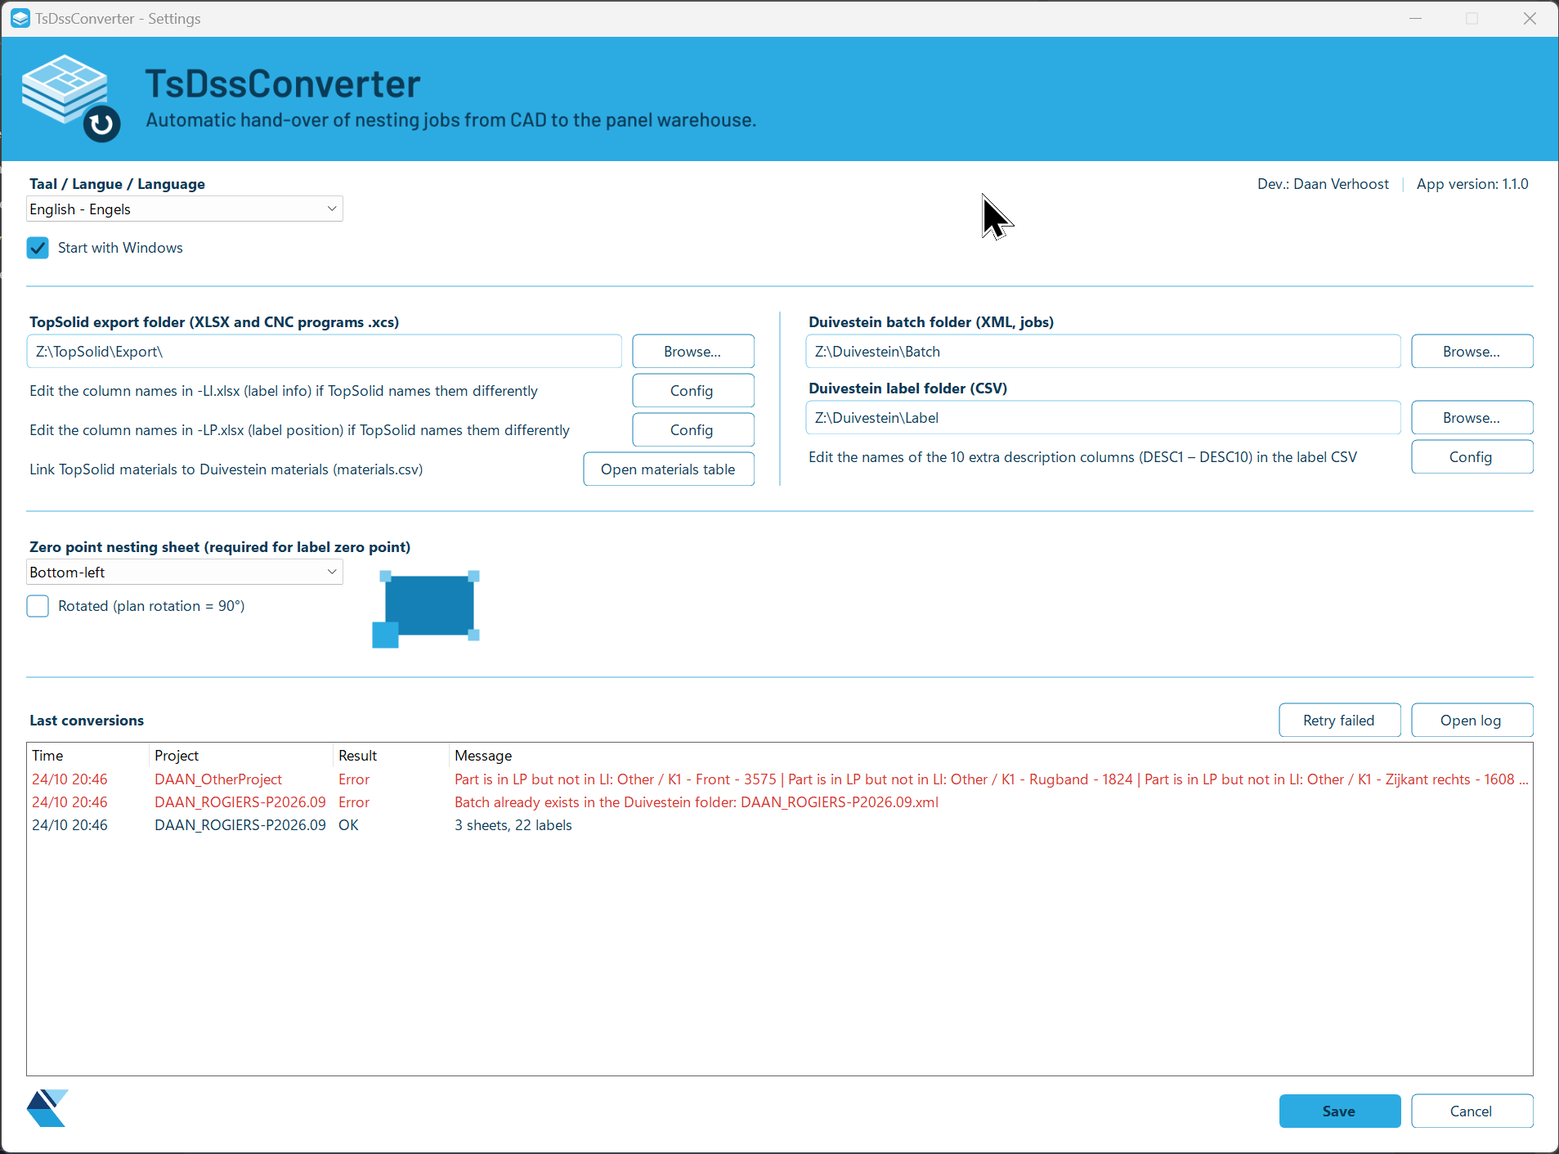
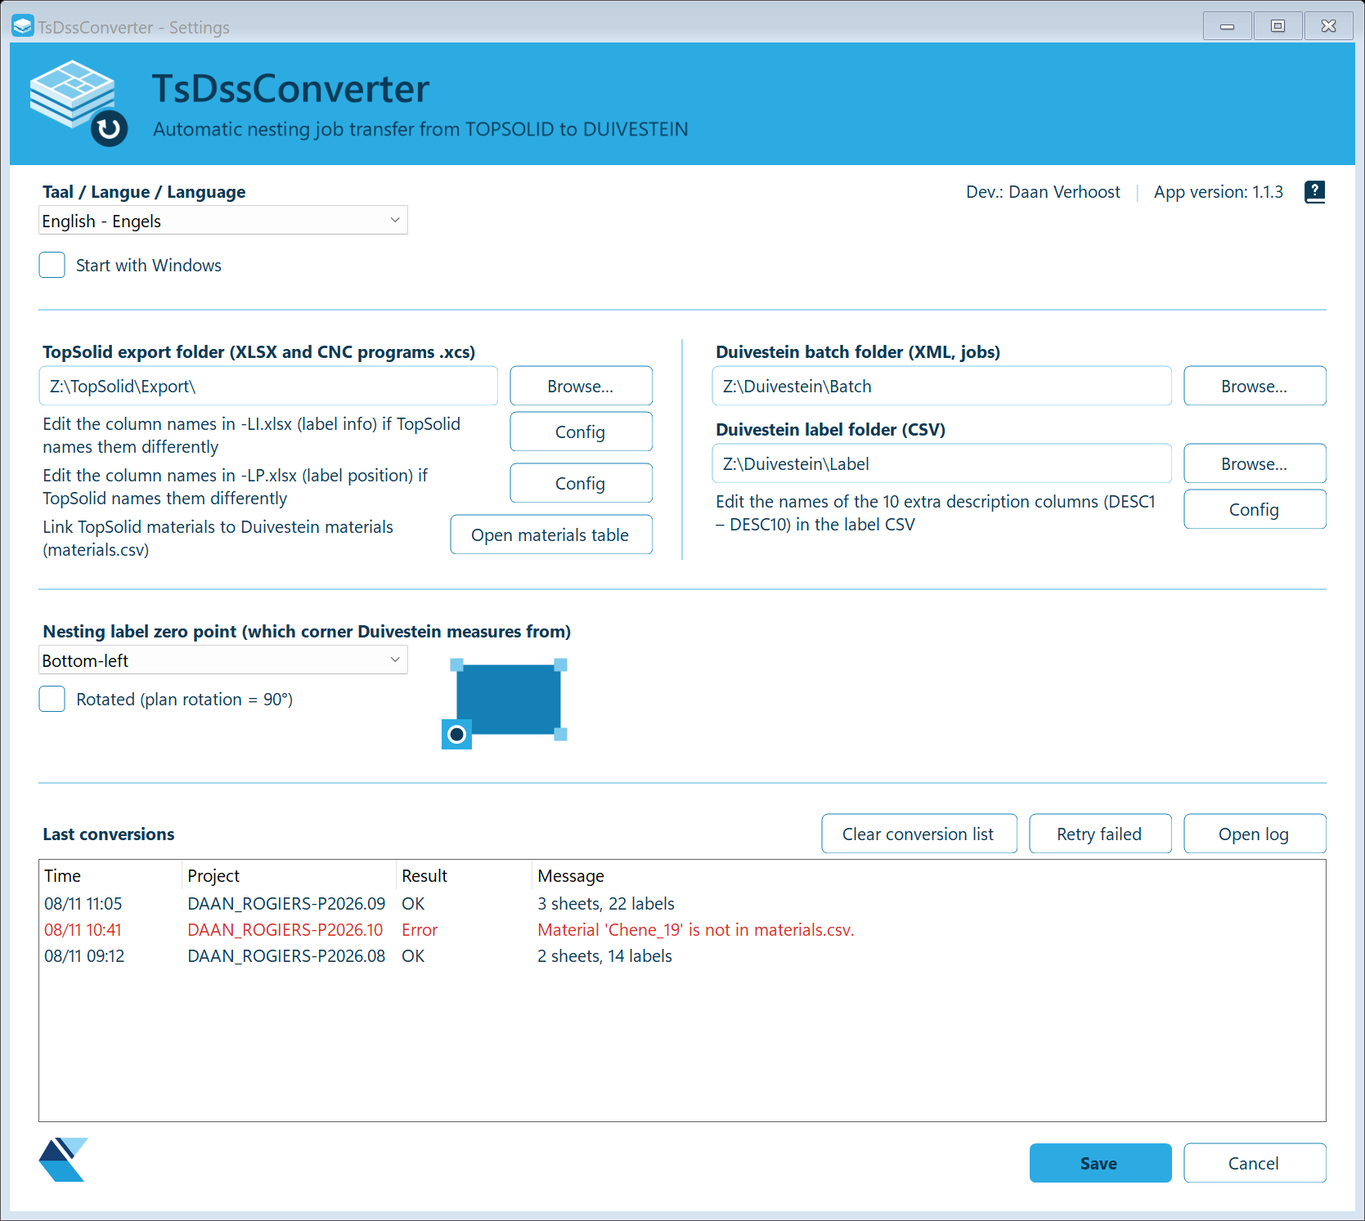
Modified README on latest release

Changed region(s): [[0.0, 0.0, 1.0, 1.0]]

diff --git a/README.md b/README.md
@@ -1,52 +1,40 @@
-<h1 align="center"><img src="media/header@2x.png" width="540" alt="TsDssConverter - Automatic hand-over of nesting jobs from CAD to the panel warehouse."></h1>
+<h1 align="center"><img src="media/preview/Banner.png" width="540" alt="TsDssConverter - Automatic nesting job transfer from TOPSOLID to DUIVESTEIN"></h1>
 
-**Automatic hand-over of nesting jobs from TopSolid to the Duivestein warehouse.**
+**Automatic nesting job transfer from TopSolid to the Duivestein panel warehouse.**
 
-TsDssConverter is a small Windows tray application that watches a folder for TopSolid nesting exports and
-converts them, without any manual work, into a job that the Duivestein automatic warehouse understands.
+TsDssConverter is a small Windows tray application. It watches the folder where TopSolid exports its nesting jobs and turns
+every finished job, without any manual work, into a batch job for the Duivestein automatic warehouse.
+Sister tool: **[DssLabelTemplate](https://github.com/Ruu-D/DssLabelTemplate)** (view, edit and reprint the labels).
 
-> **Status: version 1.1.3 is built (2026-11-08).** Version 1.1.0 was the first customer release; 1.1.1 and 1.1.2 contain the
-> first fixes from real TopSolid exports of the customer, 1.1.3 small improvements to the settings window. Real-world tests with the Duivestein warehouse and the machine are
-> still going on. See [Status and roadmap](#status-and-roadmap).
->
-> **Important fix, agreed with TopSolid (2026-11-04):** TopSolid writes the CNC programs of every project in a folder of their
-> own, named after the project, so that two jobs can never overwrite each other's programs. Version 1.1.2 and later are ready
-> for it (older versions are not: install 1.1.3 first). See [Important fix still to do](#important-fix-still-to-do).
+> **Status:** version **1.1.3** (2026-11-08). In use at the customer since version 1.1.0 (2026-10-24); the real-world tests
+> with the warehouse and the machine are going on. Full history: [CHANGELOG.md](CHANGELOG.md).
 
----
+## At a glance
+
+- **One file**, `TsDssConverter.exe`: no installer, no .NET installation, no Excel or Office. It lives in `C:\TsDssConverter\`,
+  together with its settings, the materials table and the log files. Uninstalling = deleting that folder.
+- **Works silently** in the Windows tray. Only when a job fails: one notification and a red icon.
+- **Dutch, French and English** interface.
+- **Strict on purpose:** it never guesses a material, never overwrites a job and never lets the warehouse see half a job.
 
 ## What it looks like
 
-The program lives in the Windows tray, next to the clock (possibly under the `^` arrow), and always works silently in the
-background. Double-click the icon to open the window to modify settings if needed.
+The program lives in the Windows tray, next to the clock. Double-click the icon to open the settings window.
 
 <p align="center">
   <img src="media/preview/TrayIcon.png" width="420" alt="The TsDssConverter icon in the Windows tray, next to the clock.">
 </p>
 
-The settings window (here in English; the whole interface is also available in Dutch and French) holds the folders,
-the label zero point and the list of the last conversions. The TopSolid folder (left) and the two Duivestein folders
-(right) sit side by side:
-
 <p align="center">
-  <img src="media/preview/MainUI-preview.png" width="720" alt="The TsDssConverter 1.1.0 settings window in English. At the top the language and Start with Windows, with the developer credit and app version at the right. Below, side by side: the TopSolid export folder with two Config buttons and the Open materials table button, and the Duivestein batch and label folders with a Config button. Then the zero point of the nesting sheet with its small schematic, and the list of the last conversions with one successful and two failed jobs, the Retry failed and Open log buttons, the ROGIERS logo and Save / Cancel.">
-</p>
-
-<p align="center">
-  <img src="media/preview/TsDssConverter_DEMO.gif" width="720" alt="Animated demo of the TsDssConverter 1.1.0 settings window in English: language, start with Windows, the TopSolid export folder and the two Duivestein folders side by side, the Config buttons, the zero point of the nesting sheet and the list of the last conversions.">
+  <img src="media/preview/MainUI-preview.png" width="720" alt="The TsDssConverter settings window in English: the TopSolid export folder and the two Duivestein folders side by side, the label zero point with its small schematic, and the list of the last conversions with two successful jobs and one failed job.">
 </p>
 
 ## Why this tool exists
 
-At the customer, panels are nested and programmed in **TopSolid** (CAD/CAM) for a **SCM Morbidelli X200**
-CNC machine. The boards are stored and handled by a **Duivestein automatic warehouse**, which:
-
-1. picks up each sheet from the warehouse and puts it onto the label / alignement table,
-2. prints and places the labels (the label template layout is generated by Duivestein),
-3. sends the CNC program [via supervisor] on the SCM and pushes the sheet onto the nesting machine.
-
-The warehouse needs a *batch job* in XML-format that describes which sheets to pick, which labels to print and where each
-label goes. **TopSolid unfortunately does not produce that format. TsDssConverter is the missing link between the two systems.**
+At the customer, panels are nested and programmed in **TopSolid** (CAD/CAM) for an **SCM Morbidelli X200** CNC machine. The
+boards are handled by a **Duivestein automatic warehouse**, which picks each sheet, prints and places its labels, and pushes
+the sheet onto the machine. The warehouse needs a *batch job* (XML) that says which sheets to pick, which labels to print and
+where each label goes. **TopSolid does not produce that format: TsDssConverter is the missing link.**
 
 ```mermaid
 flowchart LR
@@ -57,193 +45,75 @@ flowchart LR
     D --> E["Duivestein warehouse<br/>picks sheets, prints labels"]
     E --> F["SCM Morbidelli X200"]
 ```
-## What this tool does
 
-For every finished TopSolid drawing, this tool:
+## How it works
 
-- reads the TopSolid XLSX exports (label information '-LI' and label positions '-LP') and joins them per part,
-- translates the TopSolid material names to the warehouse material names,
-- creates **one batch XML** with one plan per material and one entry per sheet (label file + CNC program),
-- creates **one label CSV per sheet**, with a row per part: its position, rotation, dimensions, edge banding
-  and other data that Duivestein can use in the label layout,
-- puts the files in the folders that the Duivestein warehouse reads.
+1. TopSolid writes two XLSX files per project (label information `-LI` and label positions `-LP`), the CNC programs in a
+   folder named after the project, and a trigger file `-TR` as the very last one.
+2. When the trigger file appears, the program converts the project: it joins the two exports per part, translates the
+   TopSolid material names with `materials.csv`, and writes **one batch XML** (one plan per material) and **one label CSV per
+   sheet** (position, rotation, dimensions, edge banding and other data for the label layout).
+3. The CNC programs are moved to `CNC\<project>\` and the XLSX files to `_Converted\` (folder names follow the language), so
+   the export folder only holds what is not converted yet.
+4. If something is wrong with a job, its files go to `_Error\` with a `fout.txt` that explains in plain language what to
+   correct. Once fixed, **Retry failed** puts them back for a new attempt. A network drive that is not there yet only
+   delays the job: it is retried by itself.
 
-Excel or Office is **not** needed on the PC.
-
-**What it does not do:** it does not print labels, does not talk to the machine and does not talk to
-TopSolid. It only reads and converts files.
-
-### Example
-
-The included sample project (22 parts) becomes:
-
-- 1 batch XML with 2 plans (one per material), and
-- 3 label files, one for each physical sheet.
-
-An extract of the batch XML:
-
-```xml
-<Plan>
-  <PlanName>001</PlanName>
-  <MaterialName>Melamine_18</MaterialName>
-  <XDimSize>2850</XDimSize>
-  <YDimSize>2100</YDimSize>
-  <Quantity>2</Quantity>
-  <LabelFilenames>
-    <LabelFilename>Z:\Duivestein\Label\DAAN_ROGIERS-P2026.09_001.csv</LabelFilename>
-    <!-- ... one per sheet ... -->
-  </LabelFilenames>
-  <CNCFilenames>
-    <CNCFilename>Z:\TopSolid\Export\CNC\DAAN_ROGIERS-P2026.09\Melamine_18#01.xcs</CNCFilename>
-    <!-- ... same order as the label files ... -->
-  </CNCFilenames>
-</Plan>
-```
-
-The complete expected output is in [`samples/duivestein/`](samples/duivestein/).
+The sample project in [`samples/`](samples/) (22 parts) becomes one batch XML with 2 plans and 3 label files; the expected
+output is in [`samples/duivestein/`](samples/duivestein/).
 
 ## Built to be safe
 
-A wrong job means a wrong boards on the machine, so the tool is strict:
+A wrong job means a wrong board or a wrong program on the machine, so the tool refuses rather than repairs:
 
-- **Never guesses a material.** The material of a part is the TopSolid *Matériau* column. A material missing from
-  `materials.csv` stops the conversion and is named in the message, and so do parts of different materials on one sheet or
-  a part without a material.
-- **Never overwrites a job.** If the batch already exists in the warehouse folder, nothing is written. This means that
-- **Jobs cannot overwrite each other's CNC programs.** TopSolid names them after the sheet, but writes them in a folder named
-  after the project (since 1.1.2, see [Important fix still to do](#important-fix-still-to-do)); after conversion they are moved
-  to `CNC\<project>\`. For older exports that still put the programs directly in the export folder, a program newer than the
-  job's trigger file is refused.
-- **The warehouse never sees half a job.** Label files first, batch XML last; every file is renamed into place when complete.
-- **Bad input is refused, not repaired.** Missing columns, unmatched or duplicate parts, unknown materials, unreadable
-  dimensions and labels outside their sheet are errors; nothing is written.
-- **Every problem is reported at once,** in plain language (Dutch, French or English), naming the part or column. Non-blocking
-  issues (a CNC program not there yet, a duplicate part number) are warnings only.
+- **No guessed materials:** an unknown material, an empty one or two materials on one sheet stop the job, with the name.
+- **No overwritten jobs:** if the batch already exists in the warehouse folder, nothing is written.
+- **No mixed-up CNC programs:** each project's programs stay in a folder of their own.
+- **Never half a job:** label files first, batch XML last, each file renamed into place only when complete.
+- **Every problem at once,** in plain language, naming the part or column. Small issues are warnings only.
 
-## How the automatic processing works
+## Main milestones
 
-The program watches the TopSolid export folder. TopSolid writes the two data files (`-LI` and `-LP`), the CNC
-programs (in a folder named after the project, `<project>\`), and the trigger file (`-TR`) as the very last one. When the
-trigger file appears:
-
-1. The program waits until the three files are complete and no longer in use (it checks every 2 seconds, and gives up
-   with an error after 2 minutes).
-2. It converts the project (one at a time) and writes the label files and the batch XML for the warehouse.
-3. It moves the three files to `_Verwerkt\<date-time> <project>` in the export folder (`_Effectuee` / `_Converted` in French /
-   English, the folder names follow the selected language), and the CNC programs of the job
-   from `<project>\` to `CNC\<project>\` (the batch XML points there; the emptied `<project>\` folder is removed). The export
-   folder itself then only holds what is not converted yet.
-4. If something is wrong with the files, they go to `_Fout\<date-time> <project>` (`_Erreur` / `_Error`) together with a `fout.txt` that
-   explains in plain language (in the selected language) what to correct. After the cause is fixed (for example a
-   material was added to `materials.csv`), the button **Herstart mislukte** / **Réessayez échoué** / **Retry failed** in the
-   settings window puts the files of all failed projects back in the export folder, which starts a new attempt at once.
-   It never overwrites a file that is already in the export folder (for example a newer export of the same project): such
-   a project is left alone and the user is told. Putting the files back by hand works as well.
-
-Problems that are not the fault of the files, such as a network drive that is not connected yet, do **not** move
-anything: the files wait and the program tries again by itself, and the user is told once. The program also scans the
-folder every 30 seconds (in case a file event is missed), and the menu item *Nu scannen* scans at once.
-
-## Status and roadmap
-
-| Stage | Content | Status |
+| Version | Date | |
 |---|---|---|
-| 1 | **Core + command line tool**: read, join, map, write XML and CSVs; automated tests | **Done** |
-| 2 | **Validation**: all checks and warnings, one clear report, exit code for errors | **Done** |
-| 3 | **Tray application (shell)**: icon with four looks (normal, busy, error, paused), menu, settings window, `settings.json`, start with Windows, log files. | **Done** |
-| 4 | **Folder watching and processing**: trigger file, one conversion at a time, `_Verwerkt` / `_Fout` folders with a readable `fout.txt`, notifications, recovery when the network drive is gone | **Done** |
-| 5 | **Delivery**: one 'installation' file `TsDssConverter.exe` (version 1.1.3, 52 MB, no .NET needed), install at the customer, physical test sheet | **1.1.0 = first customer release; 1.1.3 built; real-world tests going on** |
+| 1.0.0 | 2026-09-20 | First complete version: conversion, all checks, tray application, folder watching, one-file delivery |
+| 1.0.3 | 2026-09-21 | Batch XML in the format accepted by Duivestein's DSSClient |
+| 1.1.0 | 2026-10-24 | **First customer release**, with the redesigned settings window |
+| 1.1.1 | 2026-10-30 | Fixes from the first real customer exports (material from TopSolid's *Matériau* column) |
+| 1.1.2 | 2026-11-04 | CNC programs read from a folder per project, as agreed with TopSolid |
+| 1.1.3 | 2026-11-08 | `settings.json` can be edited while the program runs (see below); banner in the style of DssLabelTemplate |
 
-**1.1.3 (2026-11-08):** a new subtitle in the banner, in the same font style as the sister program DssLabelTemplate, and a 15%
-smaller banner (in both programs); the settings window can be maximized; for maintenance, **Shift+click on the ROGIERS logo**
-opens `settings.json` in Notepad (a normal click still opens the website). A changed `settings.json` is used within seconds,
-without a restart, and saving in the window no longer overwrites what was edited in the file.
-**1.1.2 (2026-11-04):** the CNC programs are read from a folder named after the project (`<export>\<project>\`), as agreed with
-TopSolid; programs directly in the export folder (older exports) still work.
-**1.1.1 (2026-10-30):** the material is read from the TopSolid *Matériau* column, parts of different materials on one sheet are
-refused, and a **Clear conversion list** button empties the list in the window (the log files keep everything).
-**Next:** bug fixes from practice; no new features are planned.
+## Settings that are only in `settings.json`
 
-**What is verified so far**
+The folders, language and zero point are set in the window. A few advanced settings are only in
+`C:\TsDssConverter\settings.json`: **Shift+click on the ROGIERS logo** (bottom left of the window) opens it in Notepad. A saved
+change is used within seconds, without a restart, and is never overwritten by the window.
 
-- 460 automated tests pass. They cover the conversion, every error and warning, the settings window, the folder watching (with a
-  fake clock) and all three languages.
-- The settings window lays out correctly at 100%, 125% and 150% screen scaling (checked on a real screen at each scaling,
-  plus automated tests that guard the rules).
-- The sample TopSolid export converts to exactly the expected files (compared byte for byte).
-- The single-file `.exe` (about 52 MB) starts, creates its files and refuses a second copy. An earlier build ran on a PC without
-  .NET and converted the sample correctly.
-- A renamed TopSolid column can be followed by editing a text file (the *Config* buttons); this is tested too.
-- A real export of the customer (2026-10-30), in the format agreed with TopSolid, was converted correctly by the 1.1.1 `.exe`
-  by itself (folder watching, CNC programs moved, files put away).
-- The 1.1.2 `.exe` converted the sample by itself with its CNC programs in the new project folder (programs found and moved,
-  the emptied folder removed, no warnings).
+| Setting | Default | Meaning |
+|---|---|---|
+| `CncExtension` | `.xcs` | File extension of the CNC programs |
+| `CncPathPrefixInXml` | empty | Replaces the export folder in the CNC paths of the batch XML (e.g. a `\\server\...` path) |
+| `CsvEncoding` | `utf-8` | Encoding of the label CSV files |
+| `RescanSeconds` | `30` | How often the export folder is scanned besides the file events (5 – 3600) |
+| `RequireTriggerFile` | `true` | Wait for the `-TR` file before converting |
 
-## Decisions taken so far
+The TopSolid column names and the extra label columns are set with the *Config* buttons, the materials with
+*Open materials table*.
 
-- **One folder:** everything lives in `C:\TsDssConverter\` (exe, settings, `materials.csv`, column files, logs). Uninstalling means
-  deleting it.
-- **Editable column names:** the header names the program looks for are in small text files (the *Config* buttons), so a renamed
-  TopSolid column does not break it.
-- **Three languages:** Dutch (default), French and English, chosen in the settings. Files for the warehouse are not translated.
-- **Quiet operation:** in the tray, no pop-ups on success; on an error one notification and a red icon until the next success or
-  until the window is opened.
-- **Retry failed:** one button puts all failed projects back in the export folder once the cause is fixed. It never overwrites and
-  is silent on success.
-- **TopSolid files:** `-TR` is written last, so everything else is complete when it appears. CNC programs are `.xcs`, with
-  drive-letter paths (`Z:`) in the batch XML.
-- **CNC programs:** TopSolid writes them in `Z:\TopSolid\Export\<project>\` (since 1.1.2); after conversion they are moved to
-  `Z:\TopSolid\Export\CNC\<project>\`, so jobs never overwrite each other's programs.
-- **Materials:** the TopSolid name is the master name; the warehouse uses the same names and checks the sheet sizes against its stock.
-  The material is read from the *Matériau* column of the label-info export, not from the sheet name (since 1.1.1). Keeping
-  `materials.csv` up to date is the customer's responsibility.
-- **By design:** the list of conversions is not saved between runs, and the app runs only while a user is logged in.
-
-## Important fix still to do
-
-**The CNC programs of every project must be written in a folder of their own, to be set up in TopSolid.**
-
-**Agreed with TopSolid (2026-11-04)**, replacing the project prefix in the sheet name agreed on 2026-10-30 (TopSolid cannot put
-the project in the CAM file name, because a program belongs to parts, not to a project): TopSolid makes a folder named after
-the project inside the export folder and writes the programs there, named after the sheet as before:
-
-```
-Z:\TopSolid\Export\P2026-Cuisine-ROGIERS-LI.xlsx
-Z:\TopSolid\Export\P2026-Cuisine-ROGIERS-LP.xlsx
-Z:\TopSolid\Export\P2026-Cuisine-ROGIERS\MELA_BLANC_18#01.xcs
-Z:\TopSolid\Export\P2026-Cuisine-ROGIERS\MELA_BLANC_18#02.xcs
-Z:\TopSolid\Export\P2026-Cuisine-ROGIERS-TR.xlsx      (still the very last file)
-```
-
-The folder name is exactly the project name of the XLSX files; each program name is exactly the sheet name (`Nom_panneau` in the
-label-info export = `SP` in the label-position export) + `.xcs`. The sheet names need no project in them. The program is ready
-for this since 1.1.2 (checked with the sample in this layout). Waiting for TopSolid to deliver it.
-
-Why this matters: TopSolid used to write the programs of **all** jobs in one shared folder and names them after the sheet only.
-A second job with the same material and sheet number overwrote the program of the first job before the first job had been
-converted, and a wrong program on the machine is the most expensive mistake this tool could allow.
-
-Until every export uses the project folder, the converter still accepts programs directly in the export folder, and refuses such
-a program when it is more than 5 seconds newer than the job's trigger file (a safety net that compares file times on a network
-drive, so it cannot be proven complete). Programs in the project folder are not checked that way: no other job writes there.
-Once every export uses the project folder, the old place and that check can be dropped (a separate, small step).
-
-## Still to be confirmed by others
+## Open points
 
 | From | Question |
 |---|---|
-| TopSolid | **Important:** deliver the agreed project folder for the CNC programs (see [Important fix still to do](#important-fix-still-to-do)). The program looks for `{project}\{sheet name}.xcs` in the export folder, then for `{sheet name}.xcs` |
-| TopSolid | The sheet thickness column in the export was always 18; the export of 2026-10-30 shows the real thickness (8 and 18): to confirm (the tool takes the thickness from `materials.csv` anyway) |
-| Duivestein | Restrictions on batch name (length, characters) and what happens when a batch is sent twice |
-| Physical test | Which point of the label the position refers to, the rotation direction, and whether the zero-point settings change the rotation |
-| Physical test | Does Duivestein's print template pre-rotate the printed content for 180°/270° (so a SQUARE label's edge-banding fields still land on the right edge)? And if the label stock is NOT square, does a 90°/270° rotation squeeze the field layout into the shorter dimension for about half the parts, or does Duivestein's engine avoid that? |
-
+| TopSolid | **Deliver the agreed folder per project for the CNC programs** (`<export>\<project>\<sheet>.xcs`, agreed 2026-11-04). The program is ready for it; until then programs directly in the export folder still work, protected by a time check. |
+| Duivestein | Restrictions on the batch name, what happens when a batch is sent twice, and an import test of the label CSVs |
+| Physical test sheet | Which point of the label the position refers to, the rotation direction, and how square and non-square labels are turned |
 
 ## Technology
 
-C# on .NET 10, [ClosedXML](https://github.com/ClosedXML/ClosedXML) to read XLSX files (no Excel needed),
-xUnit for the tests. The tray application uses Windows Forms.
+C# on .NET 10 with Windows Forms; [ClosedXML](https://github.com/ClosedXML/ClosedXML) reads the XLSX files (no Excel needed).
+460 automated tests (xUnit) cover the conversion, every error and warning, the window at several screen scalings and all three
+languages; the sample converts byte for byte to the expected files.
 
 ## Credits
 
-Developed by Daan Verhoost for [ROGIERS NV/SA](https://www.rogiers.be/).
+Developed by Daan Verhoost, together with my best friend Claude AI for [ROGIERS NV/SA](https://www.rogiers.be/).
